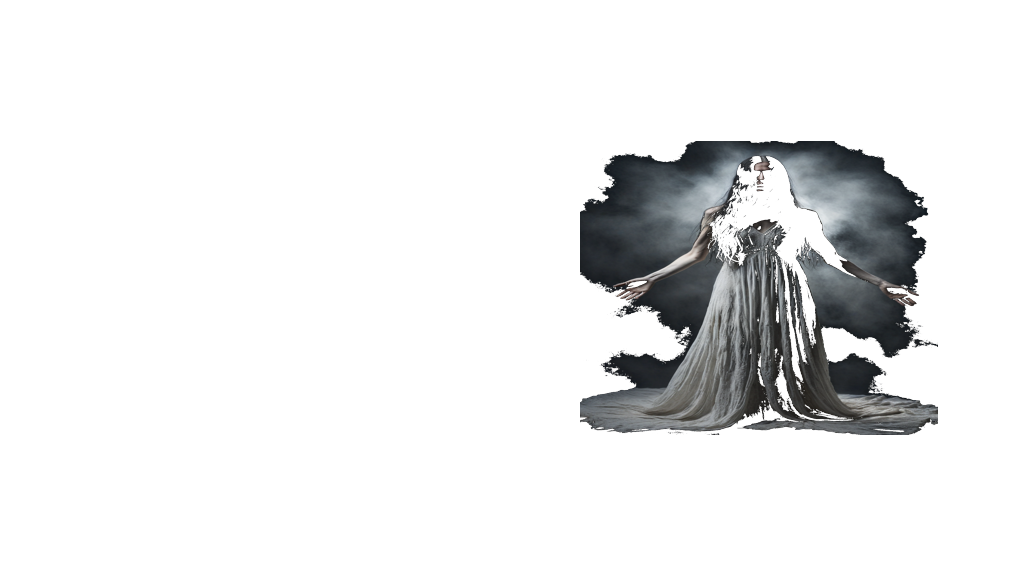
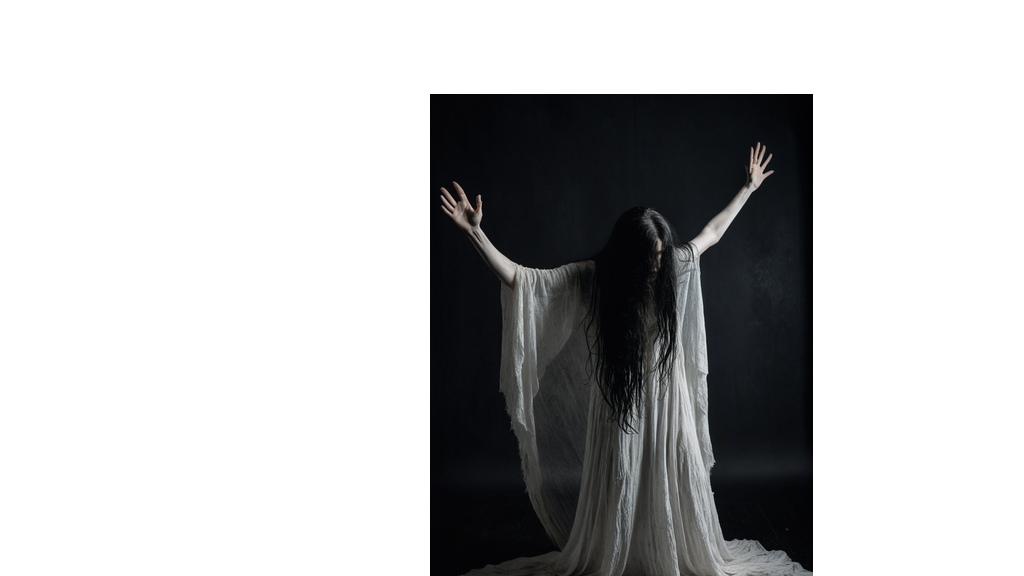
lunge ghost_overlay の顔位置を ghost_face に正確に合わせる
- tools/align_lunge_overlay.py: lunge figure を 1024x576 の canvas に
  ghost_face 座標を基準にして配置するスクリプト
- stage1/scene/ghost_overlay.png: face=(621,194) に整列
- stage2/ghost_overlay.png: face=(270,54) に整列
- stage3/ghost_overlay.png: face=(238,85) に整列

これまでは ghost_overlay 画像の figure 配置と stage JSON の
ghost_face 座標がずれていたため、lunge 時に ghost がキャラの顔に
重なって見えていた問題を解消。

diff --git a/tools/align_lunge_overlay.py b/tools/align_lunge_overlay.py
@@ -1,0 +1,54 @@
+"""lunge 姿の ghost 画像を、ghost_face の位置に正しく合わせて ghost_overlay.png を作る。
+
+背景は透明。lunge 中は face_fx の face 座標（ghost_face）に合わせて位置が決まるので、
+ここで作る画像で顔の x/y を一致させておくと、襲いかかり時の顔のブレがなくなる。
+
+使い方:
+    python tools/align_lunge_overlay.py <figure.png> <output.png> <ghost_face_x> <ghost_face_y>
+
+引数:
+    figure.png   : 入力の lunge figure（SDXL 生成直後の 832x1216 など）
+    output.png   : 出力ファイル（1024x576、透明 PNG）
+    ghost_face_x : stage JSON の ghost_face[0]（映像 1024x576 座標系）
+    ghost_face_y : stage JSON の ghost_face[1]
+"""
+import sys
+from pathlib import Path
+from PIL import Image
+
+
+CANVAS_W = 1024
+CANVAS_H = 576
+
+
+def main():
+    if len(sys.argv) != 5:
+        print(__doc__)
+        sys.exit(1)
+
+    src = Path(sys.argv[1])
+    out = Path(sys.argv[2])
+    fx = float(sys.argv[3])
+    fy = float(sys.argv[4])
+
+    # figure を顔中心 (fx, fy) に配置する。大きさは ghost_box 程度（縦 560 に収まる）
+    fig = Image.open(src).convert("RGBA")
+    target_h = 560
+    scale = target_h / fig.height
+    fig_resized = fig.resize((int(fig.width * scale), target_h), Image.LANCZOS)
+
+    # 配置: 顔が (fx, fy) に来るように
+    # 顔の y は画像の上から 25%（頭部）
+    head_y = int(fig_resized.height * 0.18)
+    head_x = int(fig_resized.width * 0.5)
+    left = int(fx - head_x)
+    top = int(fy - head_y)
+
+    canvas = Image.new("RGBA", (CANVAS_W, CANVAS_H), (0, 0, 0, 0))
+    canvas.paste(fig_resized, (left, top), fig_resized)
+    canvas.save(out)
+    print(f"保存: {out}  face=({fx},{fy})  size={fig_resized.size}  pos=({left},{top})")
+
+
+if __name__ == "__main__":
+    main()
